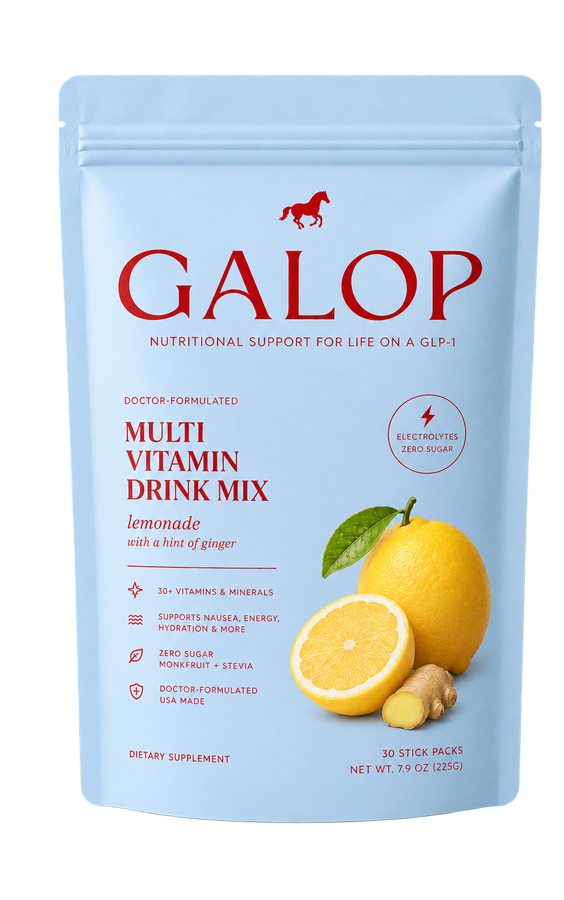
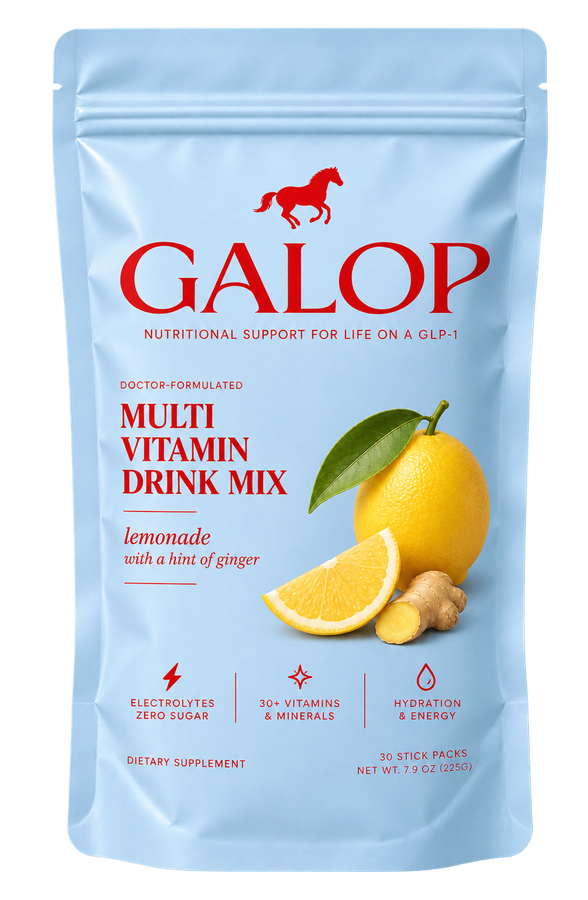
Lemonade art pass + image cleanup
- Hero: stick pack + iced ginger lemonade glass (clean cutout)
- New pouch section under the claims: full-size pouch with
  '30 stick packs · a one-month supply'
- Knock out the opaque background on galop-horse.png (removes the
  faint box behind the header logo) and strip its XMP metadata
- Delete unused legacy images (gummy-era PNGs, screenshots, OG, logo-new)
- All new imagery re-encoded from pixels only — no AI-provenance or
  ChatGPT metadata in any shipped asset (verified by binary scan)

diff --git a/src/app/App.tsx b/src/app/App.tsx
@@ -2,6 +2,7 @@ import { useState } from 'react';
 import { trackWaitlistSignup } from './analytics';
 import { getAttribution } from './attribution';
 import horseImage from "../imports/galop-horse.png";
+import heroImage from "../imports/hero-lemonade.png";
 import pouchImage from "../imports/pouch-lemonade.png";
 import sydneyImage from "../imports/sydney.png";
 
@@ -182,9 +183,9 @@ export default function App() {
                }}>
             <ElectrolytesAside />
             <img
-              src={pouchImage}
-              alt="GALOP multivitamin drink mix pouch — lemonade with a hint of ginger"
-              className="w-48 sm:w-64 h-auto object-contain"
+              src={heroImage}
+              alt="GALOP lemonade drink mix stick pack beside an iced glass of ginger lemonade"
+              className="w-52 sm:w-72 h-auto object-contain"
               style={{
                 filter: 'drop-shadow(0 8px 16px rgba(30, 60, 90, 0.18))',
                 display: 'block',
@@ -323,6 +324,27 @@ export default function App() {
               </p>
             </div>
           ))}
+        </div>
+
+        {/* The pouch — what you get */}
+        <div className="max-w-2xl mx-auto mt-20 text-center">
+          <img
+            src={pouchImage}
+            alt="GALOP multivitamin drink mix pouch — lemonade with a hint of ginger, 30 stick packs"
+            className="w-56 sm:w-72 h-auto object-contain mx-auto"
+            style={{ filter: 'drop-shadow(0 10px 20px rgba(30, 60, 90, 0.16))' }}
+          />
+          <p className="mt-5"
+             style={{
+               fontFamily: 'Inter, sans-serif',
+               fontSize: 'clamp(0.7rem, 1.2vw, 0.85rem)',
+               fontWeight: 700,
+               color: '#EF2A30',
+               textTransform: 'uppercase',
+               letterSpacing: '0.2em'
+             }}>
+            30 stick packs <span style={{ margin: '0 0.6em', opacity: 0.7 }}>·</span> A one-month supply
+          </p>
         </div>
 
         {/* Founder's Note */}
